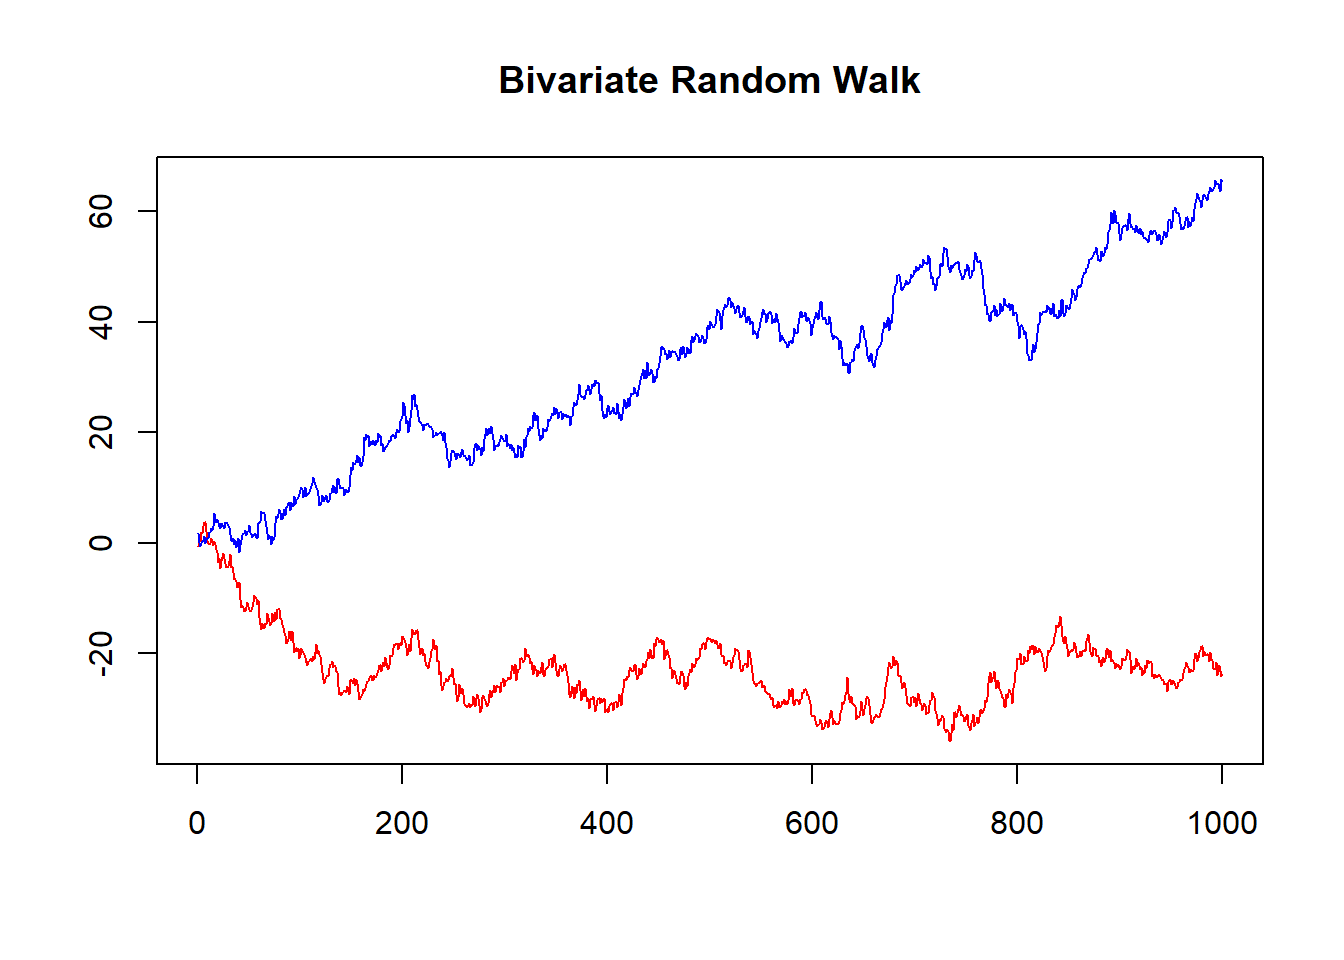
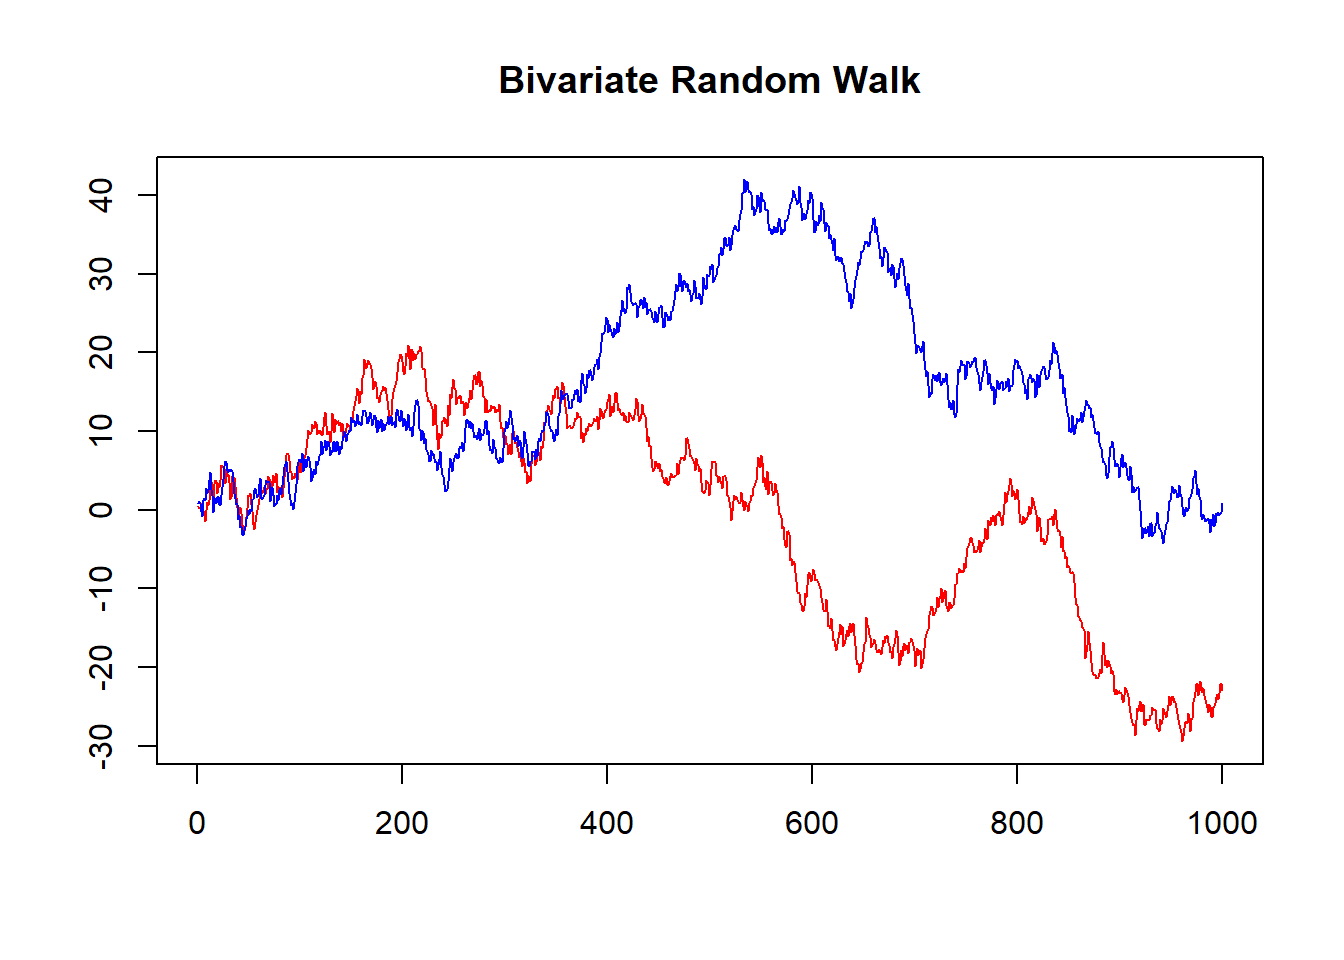
docs - posterior derivs for lambda

diff --git a/docs/index.html b/docs/index.html
@@ -554,16 +554,16 @@ p(\Sigma|Y,X) &amp;= IW_N(\bar{S},\bar{\nu}) \\
 <span id="cb2-27"><a href="#cb2-27" aria-hidden="true" tabindex="-1"></a></span>
 <span id="cb2-28"><a href="#cb2-28" aria-hidden="true" tabindex="-1"></a><span class="fu">round</span>(<span class="fu">apply</span>(res[[<span class="dv">1</span>]],<span class="dv">1</span><span class="sc">:</span><span class="dv">2</span>,mean),<span class="dv">2</span>) <span class="co">#A posterior mean</span></span></code><button title="Copy to Clipboard" class="code-copy-button"><i class="bi"></i></button></pre></div>
 <div class="cell-output cell-output-stdout">
-<pre><code>      [,1] [,2]
-[1,] -0.40 0.17
-[2,]  0.98 0.00
-[3,]  0.00 1.00</code></pre>
+<pre><code>     [,1] [,2]
+[1,] 0.03 0.06
+[2,] 1.00 0.00
+[3,] 0.00 1.00</code></pre>
 </div>
 <div class="sourceCode cell-code" id="cb4"><pre class="sourceCode r code-with-copy"><code class="sourceCode r"><span id="cb4-1"><a href="#cb4-1" aria-hidden="true" tabindex="-1"></a><span class="fu">round</span>(<span class="fu">apply</span>(res[[<span class="dv">2</span>]],<span class="dv">1</span><span class="sc">:</span><span class="dv">2</span>,mean),<span class="dv">2</span>) <span class="co">#Sigma posterior mean</span></span></code><button title="Copy to Clipboard" class="code-copy-button"><i class="bi"></i></button></pre></div>
 <div class="cell-output cell-output-stdout">
 <pre><code>     [,1] [,2]
-[1,] 1.01 0.01
-[2,] 0.01 1.02</code></pre>
+[1,] 0.97 0.05
+[2,] 0.05 0.95</code></pre>
 </div>
 </div>
 <p>As shown above the estimated parameter means closely match the expected values for the data generating process.</p>
@@ -588,6 +588,7 @@ L(A,\Sigma,\Lambda|Y,X) &amp;\propto \det(\Sigma)^{-\frac{T}{2}} \det(\lambda I_
 <p>The posteriors for <span class="math inline">\(A\)</span>, <span class="math inline">\(\Sigma\)</span> and <span class="math inline">\(\lambda\)</span> can then be derived using the likelihood and the prior distributions. The natural conjugacy of <span class="math inline">\(A\)</span> and <span class="math inline">\(\Sigma\)</span> is preserved and so the conditional posterior <span class="math inline">\(p(A,\Sigma|Y,X)\)</span> can be derived as follows.</p>
 <span class="math display">\[\begin{align}
 p(A,\Sigma|Y,X) &amp;\propto L(A,\Sigma,\lambda|Y,X)p(A,\Sigma) \\
+\\
 &amp;= \det(\Sigma)^{-\frac{T}{2}} \det(\lambda I_T)^{-\frac{N}{2}} exp(-\frac{1}{2} tr[\Sigma^{-1} (Y-XA)' (\lambda I_T)^{-1} (Y-XA) ]) \\
 &amp;\times \det(\Sigma)^{-\frac{N+k+\underline{\nu}+1}{2}} exp(-\frac{1}{2}tr[\Sigma^{-1}(A-\underline{A})'(\underline{V})^{-1}(A-\underline{A})]) \\
 &amp;\times exp(-\frac{1}{2}tr[\Sigma^{-1}\underline{S}]) \\
@@ -597,24 +598,64 @@ exp(-\frac{1}{2} tr[\Sigma^{-1}(Y'(\lambda I_T)^{-1}Y - 2A'X'(\lambda I_T)^{-1}Y
 
 
 \end{align}\]</span>
+<p>Expanding the terms inside the square brackets, followed by completing the squares, allows the above expression to be rearranged in the form of a Matrix-variate Normal Inverse Wishart kernel.</p>
+<span class="math display">\[\begin{align}
+
+p(A,\Sigma|Y,X) &amp;\sim MNIW(\bar{A},\bar{V},\bar{S},\bar{\nu}) \\
+\\
+\bar{V} &amp;= (X'(\lambda I_T)^{-1}X + \underline{V}^{-1})^{-1} \\
+\bar{A} &amp;= \bar{V}(X'(\lambda I_T)^{-1}Y + \underline{V}^{-1}\underline{A}) \\
+\bar{S} &amp;= Y'(\lambda I_T)^{-1}Y + \underline{A}'\underline{V}^{-1}\underline{A} + \underline{S} - \bar{A}'\bar{V}^{-1}\bar{A} \\
+\bar{\nu} &amp;= T + \underline{\nu}
+
+\end{align}\]</span>
+<p>The posterior distribution for <span class="math inline">\(\lambda\)</span> is then derived as follows:</p>
+<span class="math display">\[\begin{align}
+
+p(\lambda|Y,X,A,\Sigma) &amp;\propto L(A,\Sigma,\lambda|Y,X)p(\lambda) \\
+\\
+&amp;= \det(\Sigma)^{-\frac{T}{2}} \det(\lambda I_T)^{-\frac{N}{2}} exp(-\frac{1}{2} tr[\Sigma^{-1} (Y-XA)' (\lambda I_T)^{-1} (Y-XA) ]) \\
+&amp;\times \lambda^{-\frac{\underline{\nu_{\lambda}}+2}{2}} exp(-\frac{1}{2}\frac{\underline{s_{\lambda}}}{\lambda}) \\
+\\
+&amp;= \lambda^{-\frac{TN}{2}} exp(-\frac{1}{2}\frac{1}{\lambda} tr[\Sigma^{-1}(Y-XA)'(Y-XA)]) \\
+&amp;\times \lambda^{-\frac{\underline{\nu_{\lambda}}+2}{2}} exp(-\frac{1}{2}\frac{\underline{s_{\lambda}}}{\lambda}) \det(\Sigma)^{-\frac{T}{2}}\det(I_T)^{-\frac{N}{2}}
+\\
+&amp;= \lambda^{-\frac{TN+\underline{\nu_{\lambda}}+2}{2}} exp(-\frac{1}{2}\frac{1}{\lambda} tr[\Sigma^{-1}(Y-XA)'(Y-XA)] +\underline{s_{\lambda}}) \det(\Sigma)^{-\frac{T}{2}} \\
+\\
+\end{align}\]</span>
+<p>As such,</p>
+<span class="math display">\[\begin{align}
+
+\lambda|Y,A,\Sigma &amp;\sim IG2(\bar{s_{\lambda}},\bar{\nu_{\lambda}}) \\
+\bar{s_{\lambda}} &amp;= tr[\Sigma^{-1}(Y-XA)'(Y-XA)] + \underline{s_{\lambda}} \\
+\bar{\nu_{\lambda}} &amp;= TN + \underline{\nu_{\lambda}}
+
+\end{align}\]</span>
+<p>We can then sample sequentially from the conditional posterior distributions via a Gibbs Sampler. In order to do so we initalise each of the parameters at arbitrary starting values. We then proceed accordingly:</p>
+<ol type="1">
+<li>Draw <span class="math inline">\(\Sigma^{(i)}\)</span> from the <span class="math inline">\(IW(\bar{S},\bar{\nu})\)</span> distribution</li>
+<li>Draw <span class="math inline">\(A^{(i)}\)</span> from the <span class="math inline">\(MN(\bar{A},\Sigma^{(i)}, \bar{V})\)</span> distribution</li>
+<li>Draw <span class="math inline">\(\lambda^{(i)}\)</span> from <span class="math inline">\(IG2(\bar{s_{\lambda}},\bar{\nu_{\lambda}})\)</span></li>
+</ol>
+<p>We repeat the above steps for the desired amount of iterations and collect the parameter draws in an array. We can then scrutinise the characteristics of the posterior densities using these draws.</p>
 <p>Gibbs Sampler code for t-distributed errors:</p>
 <div class="cell">
 <div class="sourceCode cell-code" id="cb6"><pre class="sourceCode r code-with-copy"><code class="sourceCode r"><span id="cb6-1"><a href="#cb6-1" aria-hidden="true" tabindex="-1"></a><span class="co">#Bivariate random walk data</span></span>
-<span id="cb6-2"><a href="#cb6-2" aria-hidden="true" tabindex="-1"></a>rw_data <span class="ot">=</span> <span class="fu">data.frame</span>(<span class="fu">matrix</span>(<span class="at">nrow=</span><span class="dv">1000</span>, <span class="at">ncol=</span><span class="dv">2</span>))</span>
-<span id="cb6-3"><a href="#cb6-3" aria-hidden="true" tabindex="-1"></a>rw_data[,<span class="dv">1</span>] <span class="ot">=</span> <span class="fu">cumsum</span>(<span class="fu">rnorm</span>(<span class="dv">1000</span>,<span class="dv">0</span>,<span class="dv">1</span>))</span>
-<span id="cb6-4"><a href="#cb6-4" aria-hidden="true" tabindex="-1"></a>rw_data[,<span class="dv">2</span>] <span class="ot">=</span> <span class="fu">cumsum</span>(<span class="fu">rnorm</span>(<span class="dv">1000</span>,<span class="dv">0</span>,<span class="dv">1</span>))</span>
+<span id="cb6-2"><a href="#cb6-2" aria-hidden="true" tabindex="-1"></a><span class="co">#rw_data = data.frame(matrix(nrow=1000, ncol=2))</span></span>
+<span id="cb6-3"><a href="#cb6-3" aria-hidden="true" tabindex="-1"></a><span class="co">#rw_data[,1] = cumsum(rnorm(1000,0,1))</span></span>
+<span id="cb6-4"><a href="#cb6-4" aria-hidden="true" tabindex="-1"></a><span class="co">#rw_data[,2] = cumsum(rnorm(1000,0,1))</span></span>
 <span id="cb6-5"><a href="#cb6-5" aria-hidden="true" tabindex="-1"></a></span>
-<span id="cb6-6"><a href="#cb6-6" aria-hidden="true" tabindex="-1"></a>p<span class="ot">=</span><span class="dv">1</span></span>
-<span id="cb6-7"><a href="#cb6-7" aria-hidden="true" tabindex="-1"></a>N<span class="ot">=</span><span class="dv">2</span></span>
+<span id="cb6-6"><a href="#cb6-6" aria-hidden="true" tabindex="-1"></a><span class="co">#p=1</span></span>
+<span id="cb6-7"><a href="#cb6-7" aria-hidden="true" tabindex="-1"></a><span class="co">#N=2</span></span>
 <span id="cb6-8"><a href="#cb6-8" aria-hidden="true" tabindex="-1"></a></span>
-<span id="cb6-9"><a href="#cb6-9" aria-hidden="true" tabindex="-1"></a>Y_ext <span class="ot">=</span> (rw_data[(p<span class="sc">+</span><span class="dv">1</span>)<span class="sc">:</span><span class="fu">nrow</span>(rw_data),<span class="fu">c</span>(<span class="dv">1</span>,<span class="dv">2</span>)]) <span class="co">#removing first p observations</span></span>
-<span id="cb6-10"><a href="#cb6-10" aria-hidden="true" tabindex="-1"></a>X_ext <span class="ot">=</span> <span class="fu">matrix</span>(<span class="dv">1</span>,<span class="fu">nrow</span>(Y_ext),<span class="dv">1</span>)               <span class="co">#Creating X matrix</span></span>
-<span id="cb6-11"><a href="#cb6-11" aria-hidden="true" tabindex="-1"></a><span class="cf">for</span> (i <span class="cf">in</span> <span class="dv">1</span><span class="sc">:</span>p){</span>
-<span id="cb6-12"><a href="#cb6-12" aria-hidden="true" tabindex="-1"></a>  X_ext     <span class="ot">=</span> <span class="fu">cbind</span>(X_ext, (rw_data[(p<span class="sc">+</span><span class="dv">1</span>)<span class="sc">:</span><span class="fu">nrow</span>(rw_data)<span class="sc">-</span>i,<span class="fu">c</span>(<span class="dv">1</span>,<span class="dv">2</span>)]))</span>
-<span id="cb6-13"><a href="#cb6-13" aria-hidden="true" tabindex="-1"></a>}</span>
+<span id="cb6-9"><a href="#cb6-9" aria-hidden="true" tabindex="-1"></a><span class="co">#Y_ext = (rw_data[(p+1):nrow(rw_data),c(1,2)]) #removing first p observations</span></span>
+<span id="cb6-10"><a href="#cb6-10" aria-hidden="true" tabindex="-1"></a><span class="co">#X_ext = matrix(1,nrow(Y_ext),1)               #Creating X matrix</span></span>
+<span id="cb6-11"><a href="#cb6-11" aria-hidden="true" tabindex="-1"></a><span class="co">#for (i in 1:p){</span></span>
+<span id="cb6-12"><a href="#cb6-12" aria-hidden="true" tabindex="-1"></a><span class="co">#  X_ext     = cbind(X_ext, (rw_data[(p+1):nrow(rw_data)-i,c(1,2)]))</span></span>
+<span id="cb6-13"><a href="#cb6-13" aria-hidden="true" tabindex="-1"></a><span class="co">#}</span></span>
 <span id="cb6-14"><a href="#cb6-14" aria-hidden="true" tabindex="-1"></a></span>
-<span id="cb6-15"><a href="#cb6-15" aria-hidden="true" tabindex="-1"></a>Y_ext <span class="ot">=</span> <span class="fu">as.matrix</span>(Y_ext)</span>
-<span id="cb6-16"><a href="#cb6-16" aria-hidden="true" tabindex="-1"></a>X_ext <span class="ot">=</span> <span class="fu">as.matrix</span>(X_ext)</span>
+<span id="cb6-15"><a href="#cb6-15" aria-hidden="true" tabindex="-1"></a><span class="co">#Y_ext = as.matrix(Y_ext)</span></span>
+<span id="cb6-16"><a href="#cb6-16" aria-hidden="true" tabindex="-1"></a><span class="co">#X_ext = as.matrix(X_ext)</span></span>
 <span id="cb6-17"><a href="#cb6-17" aria-hidden="true" tabindex="-1"></a></span>
 <span id="cb6-18"><a href="#cb6-18" aria-hidden="true" tabindex="-1"></a></span>
 <span id="cb6-19"><a href="#cb6-19" aria-hidden="true" tabindex="-1"></a></span>
@@ -657,16 +698,16 @@ exp(-\frac{1}{2} tr[\Sigma^{-1}(Y'(\lambda I_T)^{-1}Y - 2A'X'(\lambda I_T)^{-1}Y
 <span id="cb6-56"><a href="#cb6-56" aria-hidden="true" tabindex="-1"></a></span>
 <span id="cb6-57"><a href="#cb6-57" aria-hidden="true" tabindex="-1"></a><span class="fu">round</span>(<span class="fu">apply</span>(A.posterior.draws, <span class="dv">1</span><span class="sc">:</span><span class="dv">2</span>, mean),<span class="dv">2</span>)</span></code><button title="Copy to Clipboard" class="code-copy-button"><i class="bi"></i></button></pre></div>
 <div class="cell-output cell-output-stdout">
-<pre><code>      [,1]  [,2]
-[1,] -0.10 -0.20
-[2,]  0.99  0.00
-[3,]  0.00  0.99</code></pre>
+<pre><code>     [,1] [,2]
+[1,] 0.03 0.06
+[2,] 1.00 0.00
+[3,] 0.00 1.00</code></pre>
 </div>
 <div class="sourceCode cell-code" id="cb8"><pre class="sourceCode r code-with-copy"><code class="sourceCode r"><span id="cb8-1"><a href="#cb8-1" aria-hidden="true" tabindex="-1"></a><span class="fu">round</span>(<span class="fu">apply</span>(Sigma.posterior.draws, <span class="dv">1</span><span class="sc">:</span><span class="dv">2</span>, mean),<span class="dv">2</span>)</span></code><button title="Copy to Clipboard" class="code-copy-button"><i class="bi"></i></button></pre></div>
 <div class="cell-output cell-output-stdout">
 <pre><code>     [,1] [,2]
-[1,] 1.04 0.01
-[2,] 0.01 1.01</code></pre>
+[1,] 0.96 0.05
+[2,] 0.05 0.95</code></pre>
 </div>
 <div class="sourceCode cell-code" id="cb10"><pre class="sourceCode r code-with-copy"><code class="sourceCode r"><span id="cb10-1"><a href="#cb10-1" aria-hidden="true" tabindex="-1"></a><span class="fu">round</span>(<span class="fu">mean</span>(lambda.posterior.draws),<span class="dv">2</span>)</span></code><button title="Copy to Clipboard" class="code-copy-button"><i class="bi"></i></button></pre></div>
 <div class="cell-output cell-output-stdout">
